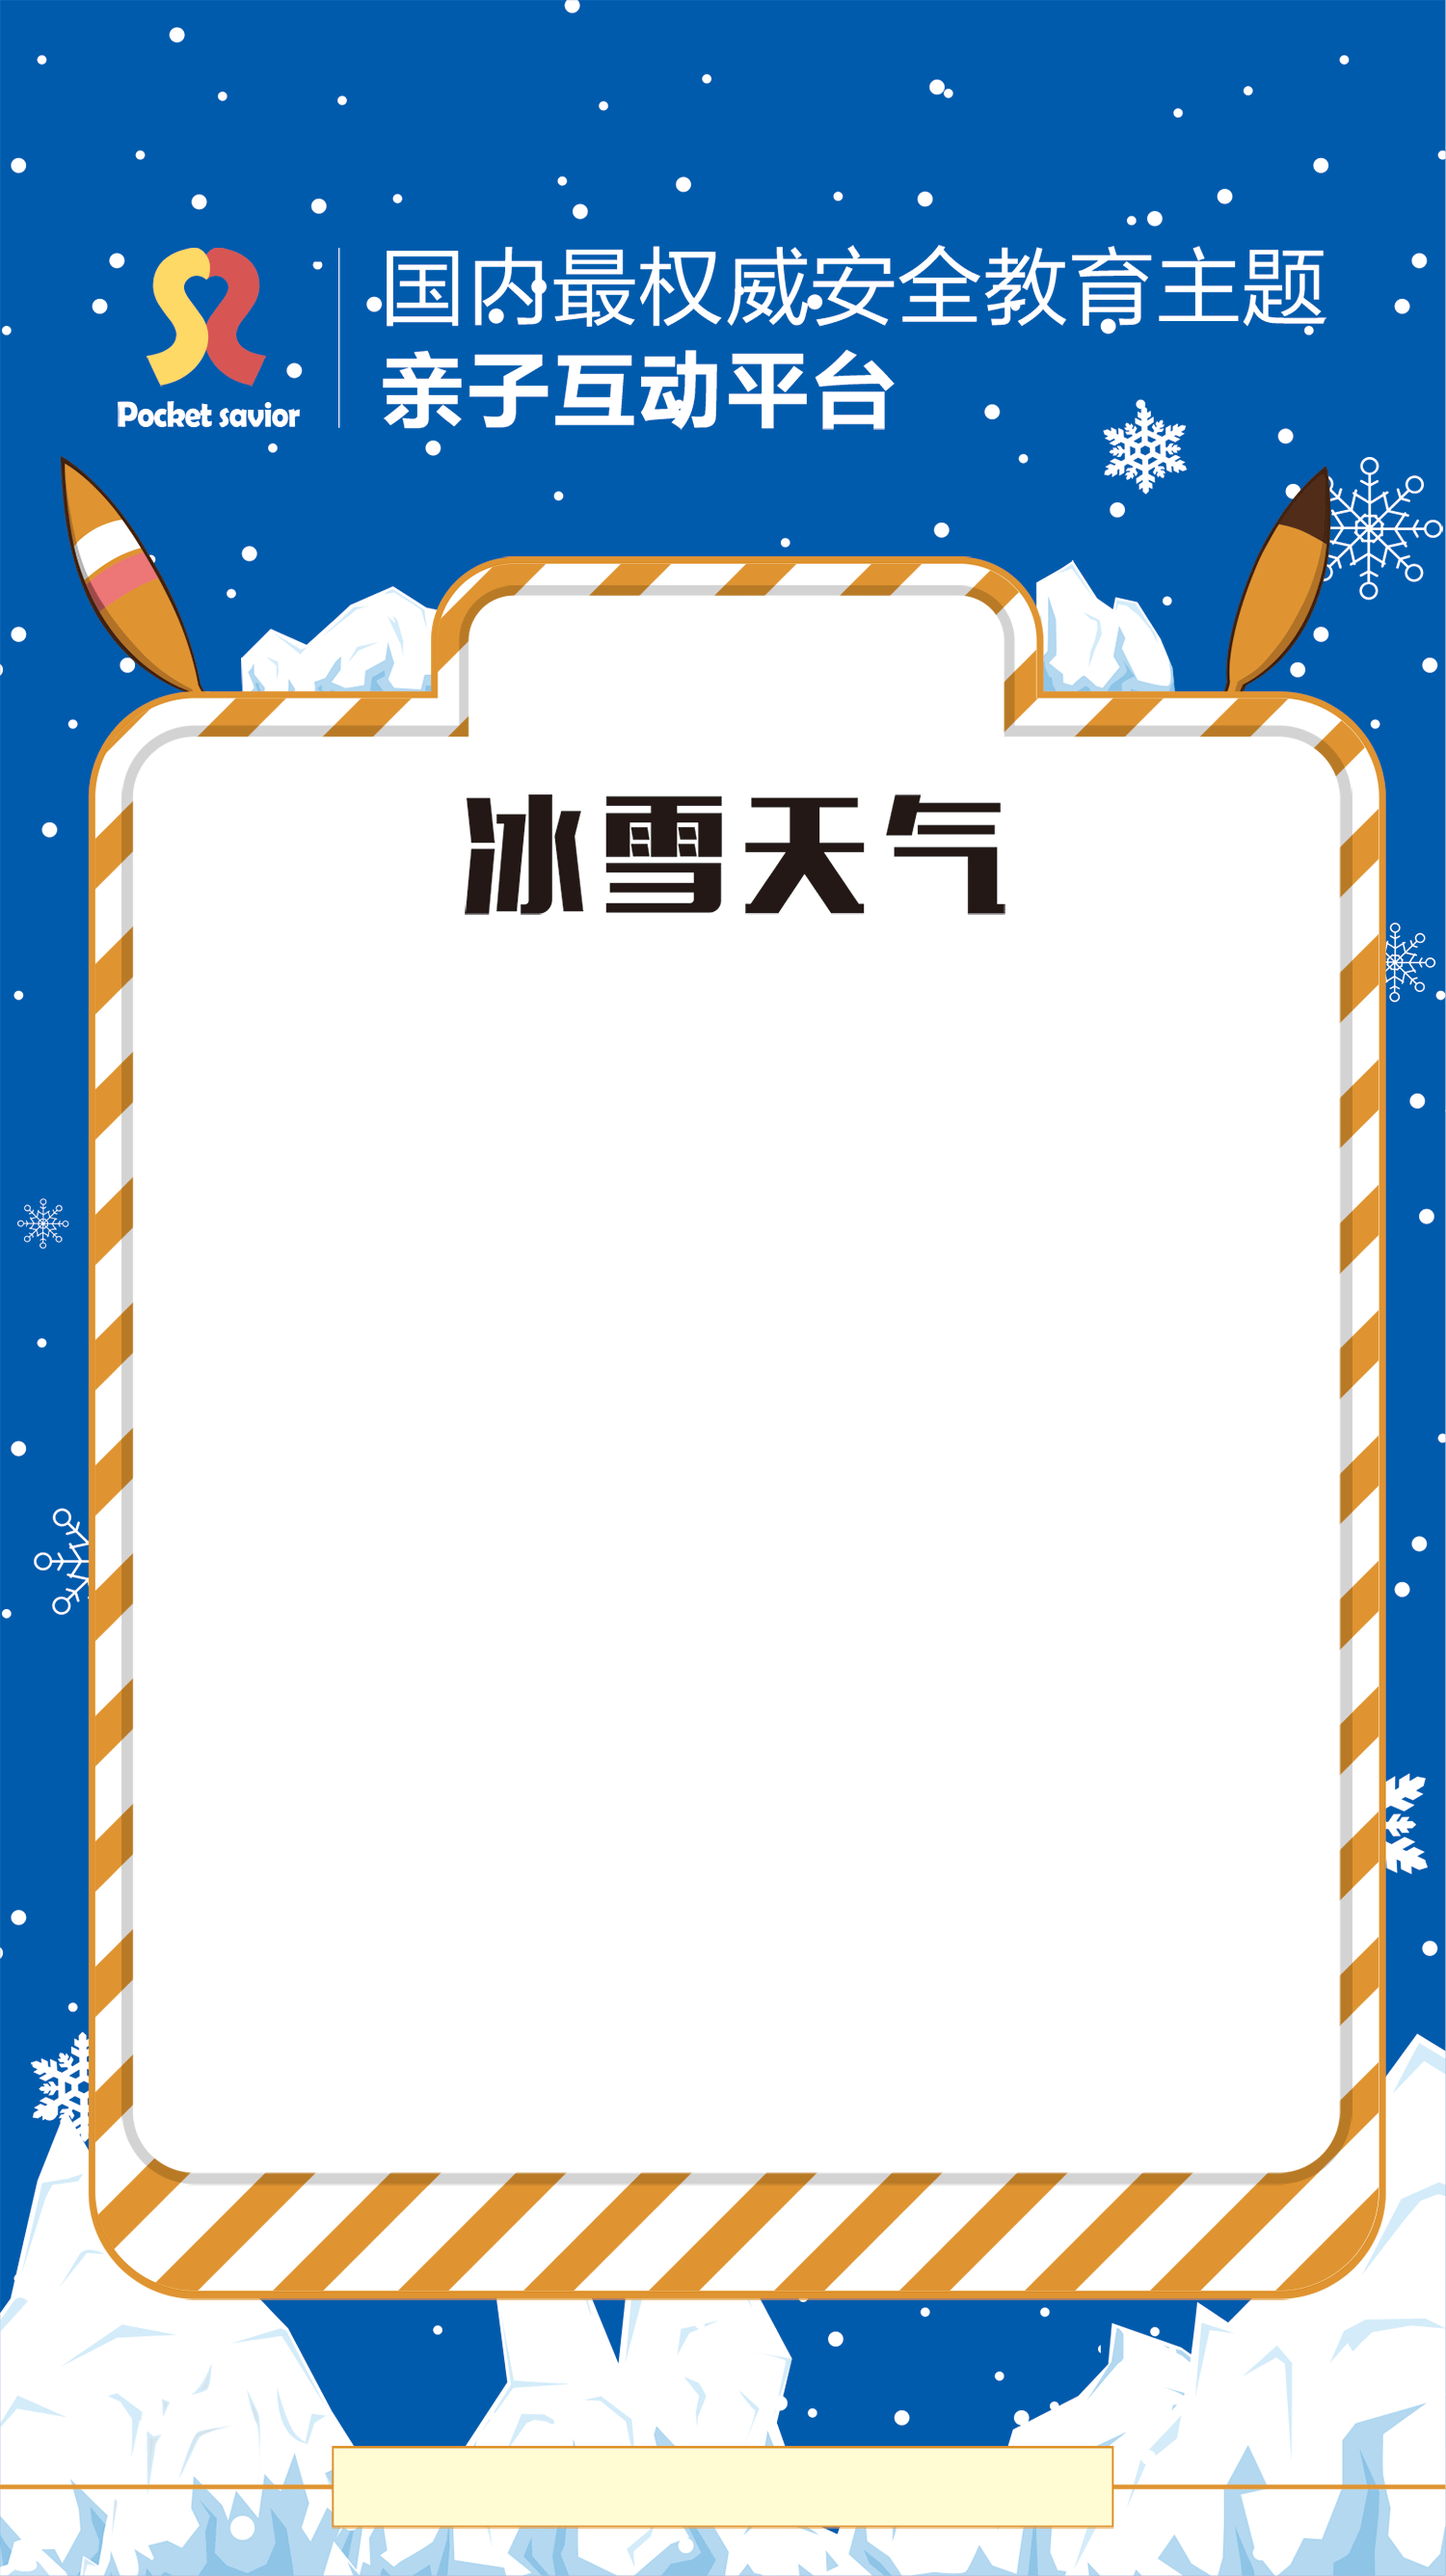
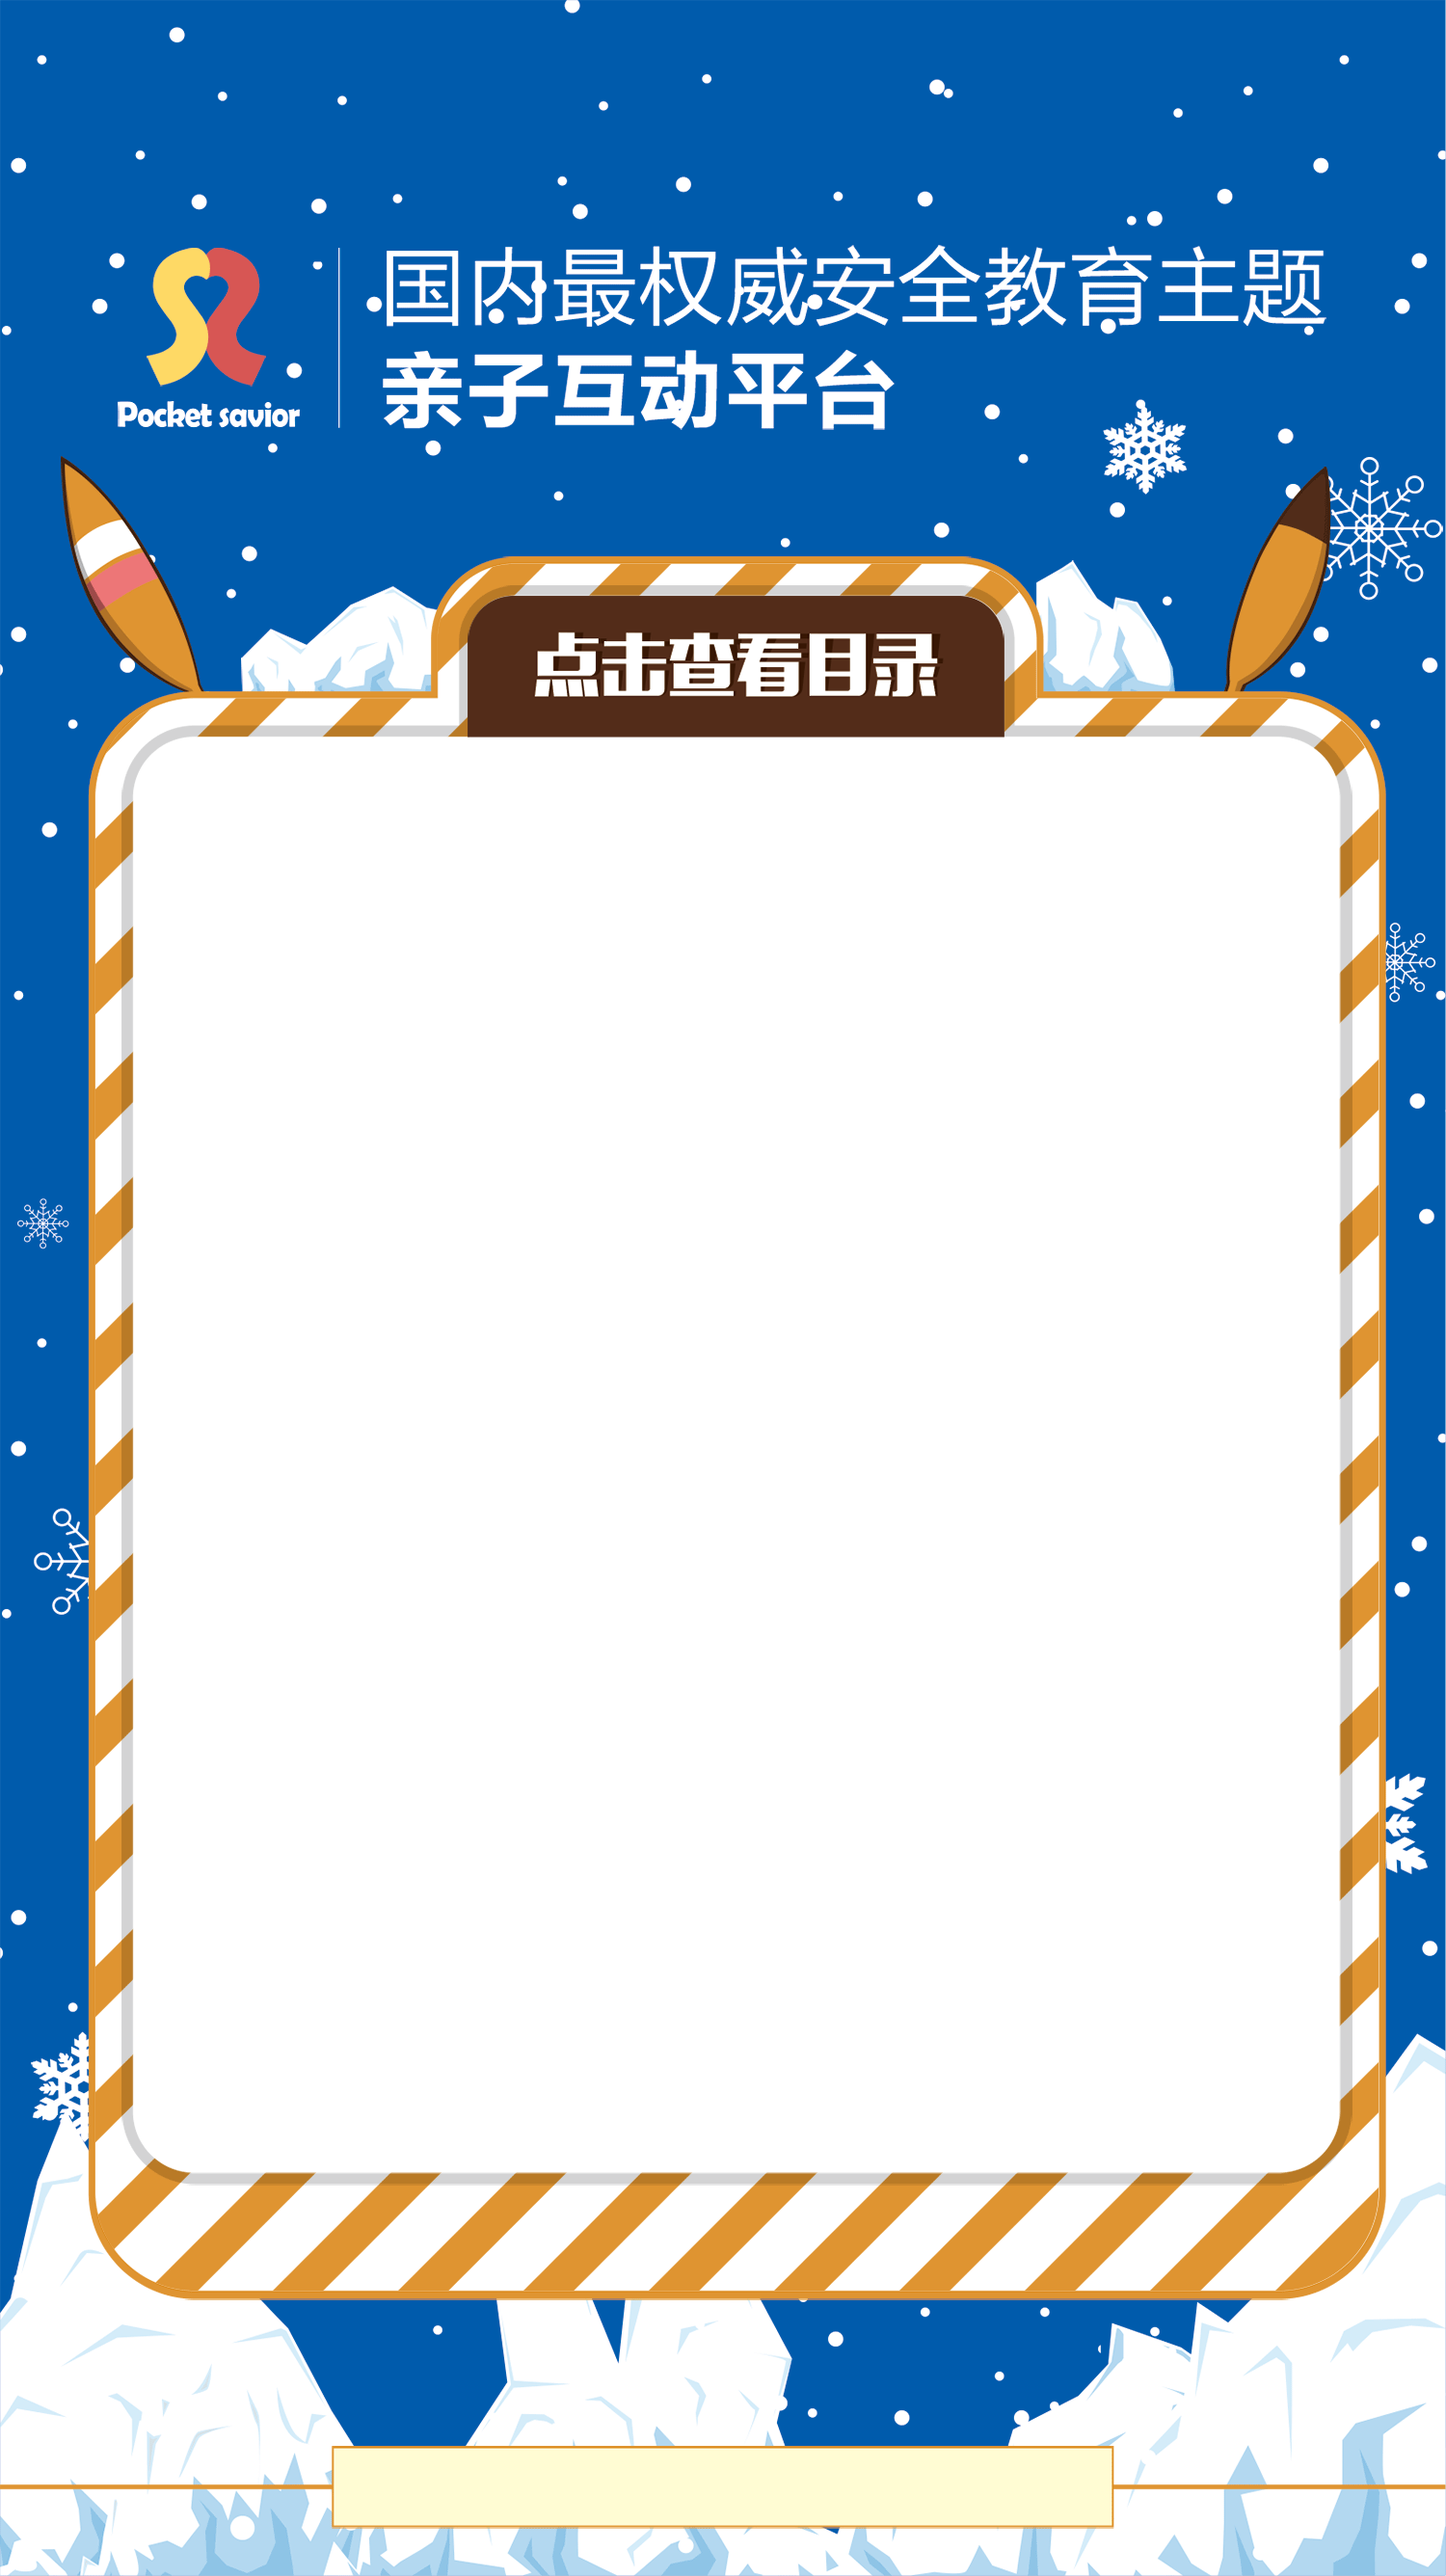
chapter页

Changed region(s): [[0.3067, 0.2174, 0.7053, 0.3728]]

diff --git a/Mobile/views/chapter.html b/Mobile/views/chapter.html
@@ -2,11 +2,59 @@
     <div id="FavBox" class="favbox">
         <img src="images/followus/followus_close.png" class="favbox_close" ng-click="hideFav($event)">
     </div>
-    <a href="#/book"><img src="images/chapter/icon_section.png" class="icon_section"></a>
+    <a href="#/book" class="icon_section"></a>
 	<div class="chaptercontent">
-		
+		<img src="images/chapter/chapter_title.png" class="icon_chapter_title">
+        <div class="contentbox">
+            <div class="content_tab">
+                <div class="content_tab_item">
+                    <img src="images/chapter/chapter_tab_item_img1.png" class="content_tab_item_img" ng-click="showChapterContent($event)">
+                    <img src="images/chapter/chapter_tab_item_img1_hover.png" class="content_tab_item_img content_tab_item_img_hover show">
+                </div>
+                <div class="content_tab_item">
+                    <img src="images/chapter/chapter_tab_item_img2.png" class="content_tab_item_img show" ng-click="showChapterContent($event)">
+                    <img src="images/chapter/chapter_tab_item_img2_hover.png" class="content_tab_item_img content_tab_item_img_hover">
+                </div>
+                <div class="content_tab_item">
+                    <img src="images/chapter/chapter_tab_item_img3.png" class="content_tab_item_img show" ng-click="showChapterContent($event)">
+                    <img src="images/chapter/chapter_tab_item_img3_hover.png" class="content_tab_item_img content_tab_item_img_hover">
+                </div>
+            </div>
+            <div class="content_body">
+                <div class="content_body_item show">
+                    <p>（1）收听预报</p>
+                    <p>（2）饮食清淡</p>
+                    <p>多喝凉<font color="red">白开水、冷盐水、白菊花水、绿豆汤</font>等防暑饮品；多吃新鲜瓜果蔬菜，少吃油腻食品。</p>
+                    <p>（3）睡眠充足</p>
+                    <p>（4）户外防晒</p>
+                    <p>减少白天户外活动时间，外出最好<font color="red">打伞、戴帽、戴太阳镜、涂防晒霜</font>，避免强光灼伤眼睛和皮肤。</p>
+                    <p>（5）老弱慎动</p>
+                    <p>老人、体弱者和高血压、心肺疾病患者应减少活动，如有胸闷、气短等症状应及早就医。</p>
+                </div>
+                <div class="content_body_item">
+                    <p>（1）收听预报</p>
+                    <p>（2）饮食清淡</p>
+                    <p>多喝凉<font color="red">白开水、冷盐水、白菊花水、绿豆汤</font>等防暑饮品；多吃新鲜瓜果蔬菜，少吃油腻食品。</p>
+                    <p>（3）睡眠充足</p>
+                    <p>（4）户外防晒</p>
+                    <p>减少白天户外活动时间，外出最好<font color="red">打伞、戴帽、戴太阳镜、涂防晒霜</font>，避免强光灼伤眼睛和皮肤。</p>
+                    <p>（5）老弱慎动</p>
+                    <p>老人、体弱者和高血压、心肺疾病患者应减少活动，如有胸闷、气短等症状应及早就医。</p>
+                </div>
+                <div class="content_body_item">
+                    <p>（1）收听预报</p>
+                    <p>（2）饮食清淡</p>
+                    <p>多喝凉<font color="red">白开水、冷盐水、白菊花水、绿豆汤</font>等防暑饮品；多吃新鲜瓜果蔬菜，少吃油腻食品。</p>
+                    <p>（3）睡眠充足</p>
+                    <p>（4）户外防晒</p>
+                    <p>减少白天户外活动时间，外出最好<font color="red">打伞、戴帽、戴太阳镜、涂防晒霜</font>，避免强光灼伤眼睛和皮肤。</p>
+                    <p>（5）老弱慎动</p>
+                    <p>老人、体弱者和高血压、心肺疾病患者应减少活动，如有胸闷、气短等症状应及早就医。</p>
+                </div>
+            </div>
+        </div>
 	</div>
 	<img src="images/book/icon_fav.png" class="icon_fav" ng-click="showFav($event)">
-	<a href="#/"><img src="images/aboutus/icon_home.png" class="icon_home"></a>
+	<a href="#/"><img src="images/chapter/icon_home.png" class="icon_home"></a>
 	<div ng-include="'views/notice.html'"></div>
 </div>

diff --git a/Mobile/styles/common.css b/Mobile/styles/common.css
@@ -275,19 +275,23 @@
     background: url("../images/chapter/chapter_bg.png");
     background-size: 100% 100%;
 }
-.chaptercontainer img.icon_section {
+.chaptercontainer a.icon_section {
     position: absolute;
-    width: 37.13%;
+    display: block;
+    width: 37%;
+    height: 6%;
     bottom: 71%;
     left: 50%;
     margin-left: -18%;
+    background: rgba(0,0,0,0);
 }
 .chaptercontainer img.icon_home {
     position: absolute;
-    width: 26.93%;
-    bottom: 10%;
+    width: 37%;
+    height: 13%;
+    bottom: 6%;
     left: 50%;
-    margin-left: -13.465%;
+    margin-left: -18.5%;
 }
 .chaptercontainer .notice {
     position: absolute;
@@ -297,6 +301,61 @@
     left: 13.5%;
     width: 73%;
     text-align: center;
+}
+.chaptercontent {
+    position: absolute;
+    top: 30%;
+}
+.chaptercontent .icon_chapter_title {
+    display: block;
+    width: 37.8%;
+    margin: 0 auto;
+}
+.chaptercontent .contentbox {
+    display: block;
+    width: 75%;
+    margin: 0 auto;
+    margin-left: 13%;
+    margin-top: 2%;
+    background: rgba(0,0,0,0);
+}
+.content_tab {
+    display: block;
+    overflow: hidden;
+}
+.content_tab .content_tab_item {
+    display: block;
+    float: left;
+    width: 33%;
+    overflow: hidden;
+}
+.content_tab .content_tab_item img.content_tab_item_img {
+    display: none;
+    width: 100%;
+}
+.content_tab .content_tab_item img.content_tab_item_img.show {
+    display: block;
+}
+.content_body {
+    overflow: hidden;
+    margin-top: 5px;
+    background: rgba(0,0,0,0);
+}
+.content_body p {
+
+}
+.content_body .content_body_item {
+    display: none;
+    position: absolute;
+    width: 75%;
+    height: 277%;
+    font-size: 12px;
+    letter-spacing: 1px;
+    overflow-x: hidden;
+    overflow-y: auto;
+}
+.content_body .content_body_item.show {
+    display: block;
 }
 
 /********************************device********************************/

diff --git a/Mobile/js/controller/book.controller.js b/Mobile/js/controller/book.controller.js
@@ -31,6 +31,11 @@ define(["require", "app", "commoncontroller"], function ($require, $app){
 				});
 			};
 
+			//章节tab切换
+			$scope.showChapterContent = function (e) {
+				var $this = $(e.target);
+			}
+
 			//aboutus-text
 			$scope.aboutusTextScroll = function () {
 				$.fn.myScroll = function(options){
